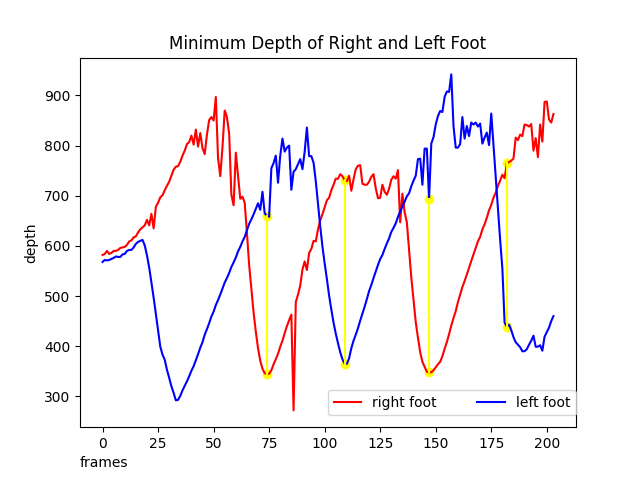
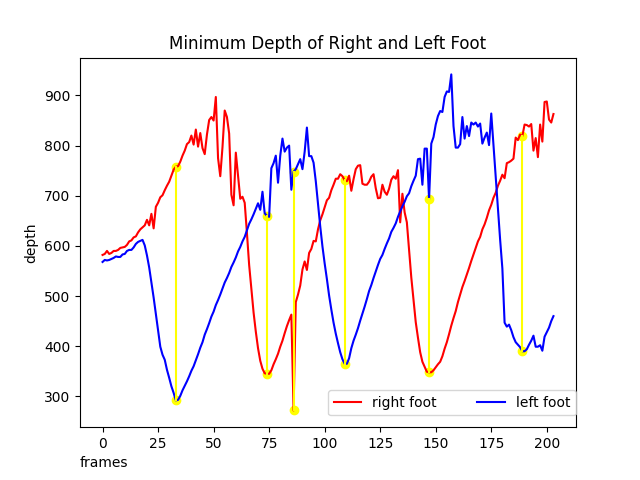
peakdet signal

diff --git a/analyse_file.py b/analyse_file.py
@@ -1,5 +1,6 @@
 # Math time
 import numpy as np
+from scipy import signal as sp
 import matplotlib.pyplot as plt
 import csv
 
@@ -133,97 +134,22 @@ def get_margin_for_valley(peaks, min_values):
     idx = np.argwhere(np.diff(np.sign(peaks[0] - peaks[1]))).flatten()
     
     # take average of min_values distance when the peaks overlap
-    average_distance = np.average(np.hstack([min_values[0][idx], min_values[1][idx]]))
+    average_distance = np.median(np.hstack([min_values[0][idx], min_values[1][idx]]))
     return average_distance
-
-# Edited script from https://gist.github.com/endolith/250860
-import sys
-from numpy import NaN, Inf, arange, isscalar, asarray, array
-def peakdet(v, delta, margin = 0, x = None):
-    """
-    Converted from MATLAB script at http://billauer.co.il/peakdet.html
-    
-    Returns two arrays
-    
-    function [maxtab, mintab]=peakdet(v, delta, x)
-    %PEAKDET Detect peaks in a vector
-    %        [MAXTAB, MINTAB] = PEAKDET(V, DELTA) finds the local
-    %        maxima and minima ("peaks") in the vector V.
-    %        MAXTAB and MINTAB consists of two columns. Column 1
-    %        contains indices in V, and column 2 the found values.
-    %      
-    %        With [MAXTAB, MINTAB] = PEAKDET(V, DELTA, X) the indices
-    %        in MAXTAB and MINTAB are replaced with the corresponding
-    %        X-values.
-    %
-    %        A point is considered a maximum peak if it has the maximal
-    %        value, and was preceded (to the left) by a value lower by
-    %        DELTA.
-    
-    % Eli Billauer, 3.4.05 (Explicitly not copyrighted).
-    % This function is released to the public domain; Any use is allowed.
-    
-    """
-    maxtab = []
-    mintab = []
-       
-    if x is None:
-        x = arange(len(v))
-    
-    v = asarray(v)
-    
-    if len(v) != len(x):
-        sys.exit('Input vectors v and x must have same length')
-    
-    if not isscalar(delta):
-        sys.exit('Input argument delta must be a scalar')
-    
-    if delta <= 0:
-        sys.exit('Input argument delta must be positive')
-    
-    mn, mx = Inf, -Inf
-    mnpos, mxpos = NaN, NaN
-    
-    lookformax = True
-    
-    for i in arange(len(v)):
-        this = v[i]
-        if this > mx:
-            mx = this
-            mxpos = x[i]
-        if this < mn:
-            mn = this
-            mnpos = x[i]
-        
-        if lookformax:
-            if this < mx-delta and this > margin:
-                maxtab.append((mxpos, mx))
-                mn = this
-                mnpos = x[i]
-                lookformax = False
-        else:
-            if this > mn+delta and this < margin:
-                mintab.append((mnpos, mn))
-                mx = this
-                mxpos = x[i]
-                lookformax = True
-
-    return array(maxtab), array(mintab)
 
 def main(min_values, peak, f_name, display_visual=True):
     min_values = np.array(min_values)
     peak = np.array(peak)
 
-    margin = get_margin_for_valley(peak, min_values)
 
-    _, valley_right_min = peakdet(min_values[0], 1, margin)
-    _, valley_left_min = peakdet(min_values[1], 1, margin)
+    min_values_invert = min_values * -1
 
-    valley_right_x = np.array(valley_right_min[:, 0]).astype(int)
-    valley_left_x = np.array(valley_left_min[:, 0]).astype(int)
+    margin = get_margin_for_valley(peak, min_values_invert)
+    valley_right_x, _ = sp.find_peaks(min_values_invert[0], height=margin, width=10)
+    valley_left_x, _ = sp.find_peaks(min_values_invert[1], height=margin, width=10)
 
-    valley_right_y = np.array(valley_right_min[:, 1])
-    valley_left_y = np.array(valley_left_min[:, 1])
+    valley_right_y = min_values[0][valley_right_x]
+    valley_left_y = min_values[1][valley_left_x]
 
     if np.min(valley_left_x) < np.min(valley_right_x): # select the foot that has first IC
         # If this is the left foot
@@ -321,6 +247,6 @@ def get_csv(f_name):
     return min_values, peaks
 
 if __name__ == "__main__":
-    f_name = "video1"
+    f_name = "live"
     min_value, peak = get_csv(f_name)
     main(min_value, peak, f_name)
